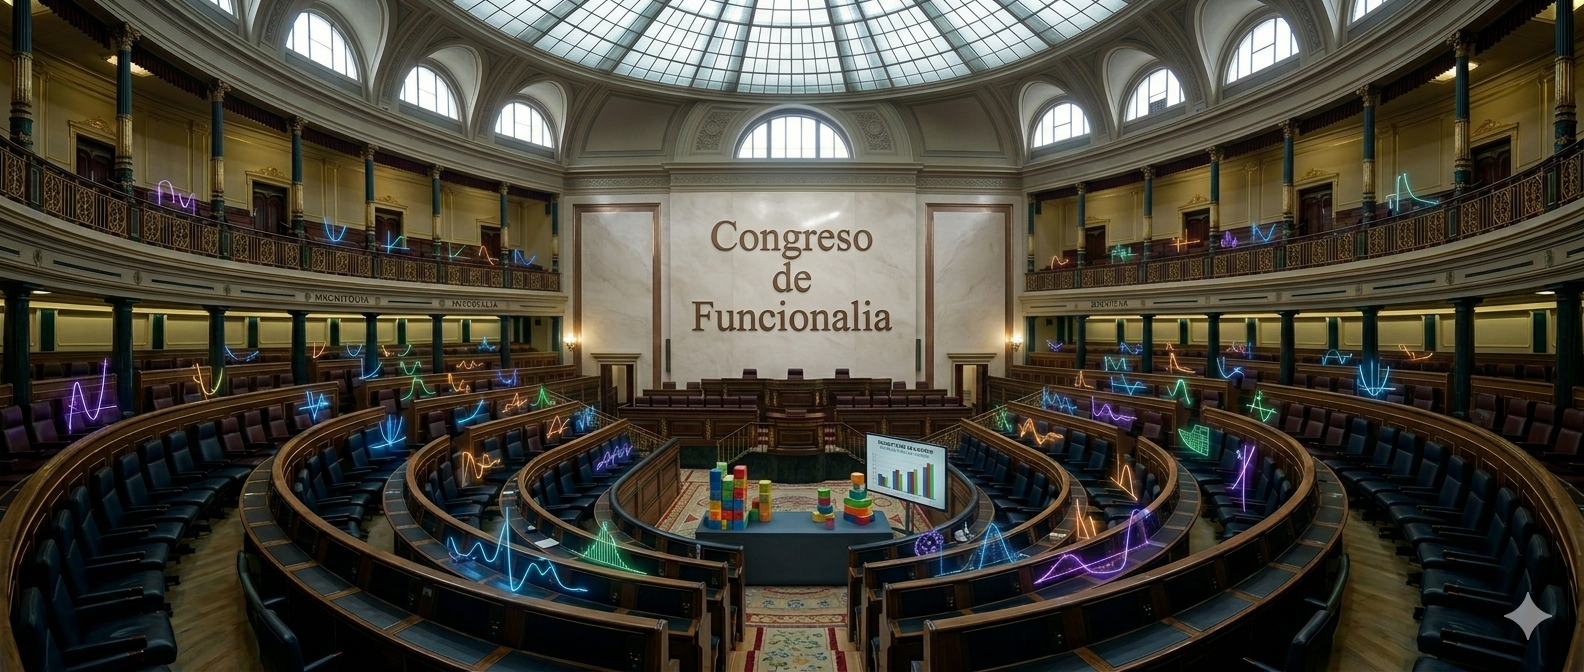
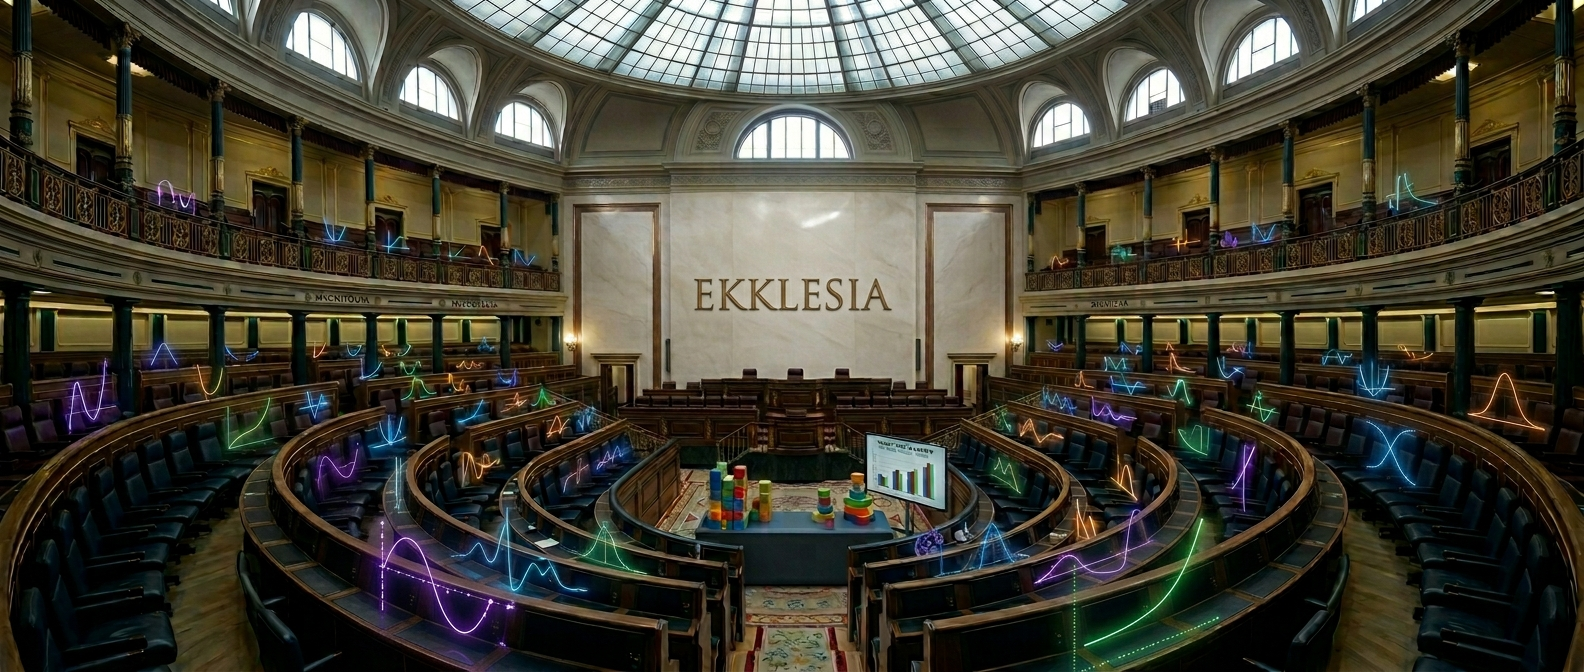
Fix selectbox placeholder, imagen congreso y lógica de empadronamiento
- Selectboxes de ciudadano usan index=None + placeholder en lugar de
  opción vacía con format_func (el texto ya no es modificable ni seleccionable)
- Padrón: 'Presentes'→'Empadronados', 'Pendientes'→'Sin empadronar'
- Tabs de trabajo (Propiedades, Colectivos, Asociaciones) filtran ciudadanos
  a solo los empadronados en sesión; si nadie está empadronado, las listas
  aparecen vacías hasta que se haga el empadronamiento en el Padrón
- miembros_dinamicos y miembros_confirmados en Colectivos también filtrados
- Actualiza assets/congreso_imagen.png con la nueva imagen

diff --git a/core/provincia_ui.py b/core/provincia_ui.py
@@ -91,14 +91,17 @@ def render_provincia(provincia: str, rol: str):
     todos_provincia = get_ciudadanos(provincia=provincia)
     ids_provincia = {c["id"]: c for c in todos_provincia}
     alias_a_id = {c["alias"]: c["id"] for c in todos_provincia}
-    _alias_opts = [""] + [c["alias"] for c in todos_provincia]
-    _alias_fmt  = lambda v: "— Selecciona o escribe para buscar —" if v == "" else v
 
     # Session-state con prefijo de provincia para evitar conflictos al navegar
     pref = f"{provincia}_"
     reg_key = f"{pref}ciudadanos_registrados"
     if reg_key not in st.session_state:
         st.session_state[reg_key] = set()
+
+    # Empadronados: solo los ciudadanos que han pasado por el Padrón en esta sesión
+    registrados_ids = st.session_state[reg_key] & set(ids_provincia.keys())
+    empadronados = [c for c in todos_provincia if c["id"] in registrados_ids]
+    _opts_emp = [c["alias"] for c in empadronados]  # opciones para tabs de trabajo
 
     # ── Tabs ──────────────────────────────────────────────────────────────────
     tab_registro, tab_propiedades, tab_colectivos, tab_asociaciones = st.tabs([
@@ -111,15 +114,14 @@ def render_provincia(provincia: str, rol: str):
     # ═══ TAB 1: Registro ══════════════════════════════════════════════════════
     with tab_registro:
         st.subheader("Empadronamiento en la provincia")
-        st.markdown("""
-        Cuando un ciudadano llega a la provincia, introduce su ID para marcarlo como presente.
-        """)
+        st.markdown("Selecciona al ciudadano que llega a la provincia para empadronarlo.")
 
         with st.form(f"{pref}registro_form"):
             alias_sel_reg = st.selectbox(
                 "Apodo del ciudadano",
-                options=_alias_opts,
-                format_func=_alias_fmt,
+                options=[c["alias"] for c in todos_provincia],
+                index=None,
+                placeholder="Selecciona o escribe para buscar…",
                 key=f"{pref}reg_alias_input",
             )
             registrar = st.form_submit_button("Empadronar ciudadano/a", type="primary")
@@ -128,22 +130,19 @@ def render_provincia(provincia: str, rol: str):
             id_limpio = alias_a_id.get(alias_sel_reg, "") if alias_sel_reg else ""
             if not id_limpio:
                 st.error("Selecciona un ciudadano.")
-            elif id_limpio not in ids_provincia:
-                st.error(f"Ciudadano no encontrado en {NOMBRES_PROVINCIA[provincia]}.")
             elif id_limpio in st.session_state[reg_key]:
-                st.warning("Este ciudadano ya estaba registrado.")
+                st.warning("Este ciudadano ya estaba empadronado.")
             else:
                 st.session_state[reg_key].add(id_limpio)
                 c_reg = ids_provincia[id_limpio]
                 st.markdown(
-                    f'<div style="color:#8BA878; font-weight:600;">✅ Registrado: '
+                    f'<div style="color:#8BA878; font-weight:600;">✅ Empadronado: '
                     f'{nombre_con_retrato_html(c_reg, size=32)}</div>',
                     unsafe_allow_html=True,
                 )
 
         st.divider()
-        registrados_ids = st.session_state[reg_key] & set(ids_provincia.keys())
-        pendientes_ids  = set(ids_provincia.keys()) - registrados_ids
+        pendientes_ids = set(ids_provincia.keys()) - registrados_ids
 
         # ── Galería con retratos ──────────────────────────────────────────────
         def _galeria_ciudadanos(lista_ids: list, highlight: bool = True):
@@ -179,21 +178,21 @@ def render_provincia(provincia: str, rol: str):
 
         col_reg, col_pend = st.columns(2)
         with col_reg:
-            st.markdown(f"**Presentes ({len(registrados_ids)}/{len(todos_provincia)})**")
+            st.markdown(f"**Empadronados ({len(registrados_ids)}/{len(todos_provincia)})**")
             if registrados_ids:
                 _galeria_ciudadanos(sorted(registrados_ids), highlight=True)
-                if st.button("Limpiar registros", type="secondary", key=f"{pref}limpiar"):
+                if st.button("Limpiar empadronamiento", type="secondary", key=f"{pref}limpiar"):
                     st.session_state[reg_key].clear()
                     st.rerun()
             else:
-                st.info("Ningún ciudadano presente aún.")
+                st.info("Ningún ciudadano empadronado aún.")
 
         with col_pend:
-            st.markdown(f"**Pendientes ({len(pendientes_ids)})**")
+            st.markdown(f"**Sin empadronar ({len(pendientes_ids)})**")
             if pendientes_ids:
                 _galeria_ciudadanos(sorted(pendientes_ids), highlight=False)
             else:
-                st.success("¡Todos presentes!")
+                st.success("¡Todos empadronados!")
 
         st.divider()
         if st.button("⚡ Empadronar todos/as (modo demo)", type="secondary", key=f"{pref}demo"):
@@ -269,16 +268,17 @@ def render_provincia(provincia: str, rol: str):
                                             key=f"{pref}reg_prop_sel")
             with col_id:
                 alias_sel_prop = st.selectbox(
-                    "Ciudadano",
-                    options=_alias_opts,
-                    format_func=_alias_fmt,
+                    "Ciudadano (empadronados)",
+                    options=_opts_emp,
+                    index=None,
+                    placeholder="Selecciona o escribe para buscar…",
                     key=f"{pref}reg_ciud_alias",
                 )
 
             if st.button("🔍 Verificar y registrar", type="primary", key=f"{pref}btn_reg_prop"):
                 cid = alias_a_id.get(alias_sel_prop, "") if alias_sel_prop else ""
                 if not cid:
-                    st.error("Selecciona un ciudadano.")
+                    st.error("Selecciona un ciudadano empadronado.")
                 else:
                     prop_codigo = prop_opciones[prop_display]
                     resultado = registrar_ciudadano_propiedad(cid, prop_codigo, provincia)
@@ -324,9 +324,9 @@ def render_provincia(provincia: str, rol: str):
                 prov_col    = col_item.get("provincia")
                 badge_col   = _PROV_BADGE.get(prov_col, "[NAC]") if ambito_col == "provincial" else "[NAC]"
 
-                # Miembros dinámicos: ciudadanos con TODAS las props como "satisface"
+                # Miembros dinámicos: solo empadronados con TODAS las props como "satisface"
                 miembros_dinamicos = [
-                    cid for cid in ids_provincia
+                    cid for cid in registrados_ids
                     if all(
                         matriz_desc_col.get(cid, {}).get(pc) == "satisface"
                         for pc in props_col
@@ -352,16 +352,17 @@ def render_provincia(provincia: str, rol: str):
                     if ambito_col == "provincial":
                         st.markdown("**Registrar ciudadano en este colectivo:**")
                         alias_col_sel = st.selectbox(
-                            "Ciudadano",
-                            options=_alias_opts,
-                            format_func=_alias_fmt,
+                            "Ciudadano (empadronados)",
+                            options=_opts_emp,
+                            index=None,
+                            placeholder="Selecciona o escribe para buscar…",
                             key=f"{pref}reg_col_alias_{col_item['id']}",
                         )
                         if st.button("🔍 Verificar y registrar en colectivo",
                                      key=f"{pref}btn_col_{col_item['id']}", type="primary"):
                             cid = alias_a_id.get(alias_col_sel, "") if alias_col_sel else ""
                             if not cid:
-                                st.error("Selecciona un ciudadano.")
+                                st.error("Selecciona un ciudadano empadronado.")
                             else:
                                 resultado = registrar_ciudadano_colectivo(cid, col_item["id"], provincia)
                                 if not resultado["ok"]:
@@ -416,7 +417,7 @@ def render_provincia(provincia: str, rol: str):
             with col_der:
                 if props_sel_col:
                     st.markdown("**Ciudadanos que satisfacen TODAS (según registros)**")
-                    todos_cids_set = {r["ciudadano_id"] for r in regs_col}
+                    todos_cids_set = {r["ciudadano_id"] for r in regs_col} & registrados_ids
 
                     miembros_confirmados = [
                         cid for cid in todos_cids_set
@@ -579,7 +580,7 @@ def render_provincia(provincia: str, rol: str):
                 filas_header[0].markdown("**Ciudadano**")
                 filas_header[1].markdown("**Número de asociado**")
 
-                for c in todos_provincia:
+                for c in empadronados:
                     cols = st.columns([3, 2])
                     cols[0].markdown(nombre_con_retrato_html(c, size=24), unsafe_allow_html=True)
                     frac_val = fracs_previas.get(c["id"], "")
